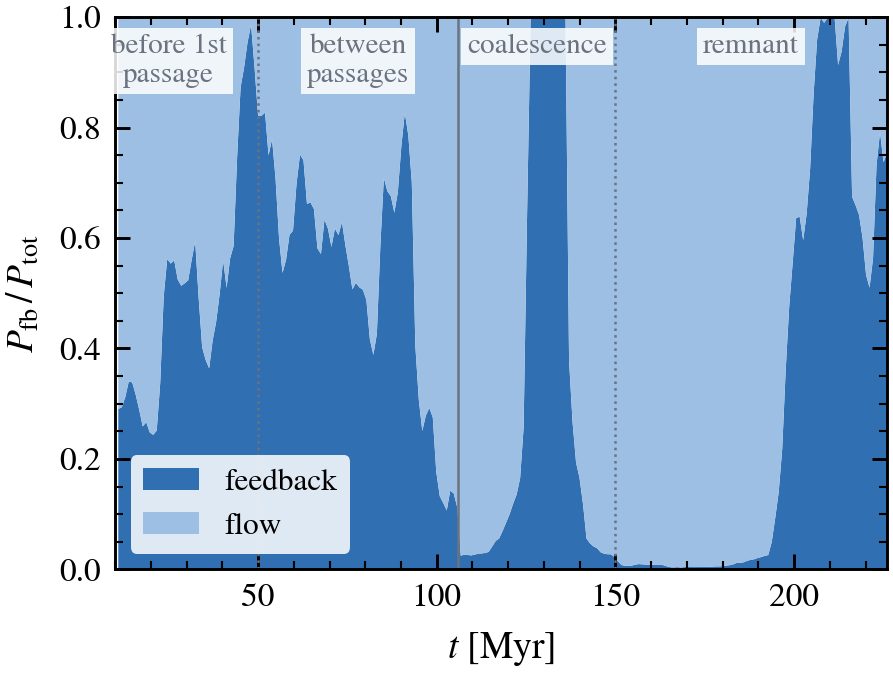
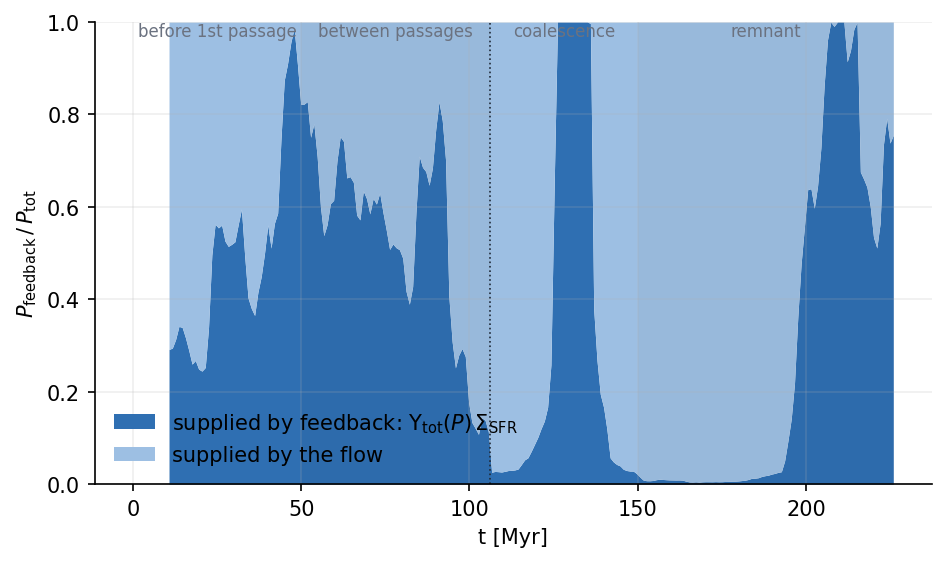
Restore all figures to the README; unconverted ones listed below the line

Changed region(s): [[0.0, 0.0, 0.9978, 0.9982]]

diff --git a/README.md b/README.md
@@ -2,7 +2,7 @@
 
 Figures from the PRFM (pressure-regulated, feedback-modulated; Ostriker & Kim 2022) test of the dwarf-galaxy merger
 simulation and its link to the star cluster mass function. Code: `/raven/u/uli/dwarf_merger` (prfm/paper_figs.py).
-Figures are added here as they are converted to paper style.
+Figures are converted to paper style one by one and replaced in place; the ones below the line are still the analysis versions.
 
 ## Merger phases
 Separation of the two nuclei; the four phases used throughout.
@@ -18,3 +18,56 @@ Total midplane pressure over the weight of the gas, for the full column and for 
 Fraction of the total midplane pressure accounted for by the feedback yields of Ostriker & Kim (2022) at the local star formation rate; the rest is supplied by the flow.
 
 ![feedback share](figs/story_2_feedback.png)
+
+---
+## Not yet converted
+
+Shear closure for quiescent patches, epsilon_S = 0.02.
+
+![shear closure](figs/story_3_shear.png)
+
+Magnetic field growth and magnetic-to-kinetic pressure ratio.
+
+![dynamo](figs/story_4_dynamo.png)
+
+Cluster mass function per merger phase.
+
+![MF per phase](figs/story_5_mf.png)
+
+![MF phases](figs/mf_phases.png)
+
+Largest bound cluster vs young stellar mass of the patch.
+
+![reservoir](figs/story_6_reservoir.png)
+
+Largest bound cluster per 25 Myr vs the weight of the star-forming patches.
+
+![ceiling](figs/story_7_ceiling.png)
+
+![ceiling detail](figs/ceiling.png)
+
+![cluster link](figs/cluster_link.png)
+
+Exact layer-weight verdict per phase.
+
+![layer verdict](figs/layer_verdict_z05.png)
+
+Line-of-sight dependence of P/W.
+
+![line of sight](figs/prfm_time_los.png)
+
+Pressure sources and dynamo.
+
+![sources dynamo](figs/sources_dynamo.png)
+
+Low-mass end convergence of the cluster MF.
+
+![low-mass convergence](figs/lowmass_convergence.png)
+
+Burst-mass distribution at fixed weight, duty cycle, index per bin.
+
+![burst distribution](figs/burst_dist.png)
+
+Mock (real weights x density-threshold duty cycle x lognormal kernel) vs observed burst-mass distribution.
+
+![burst kernel mock](figs/burst_kernel.png)
